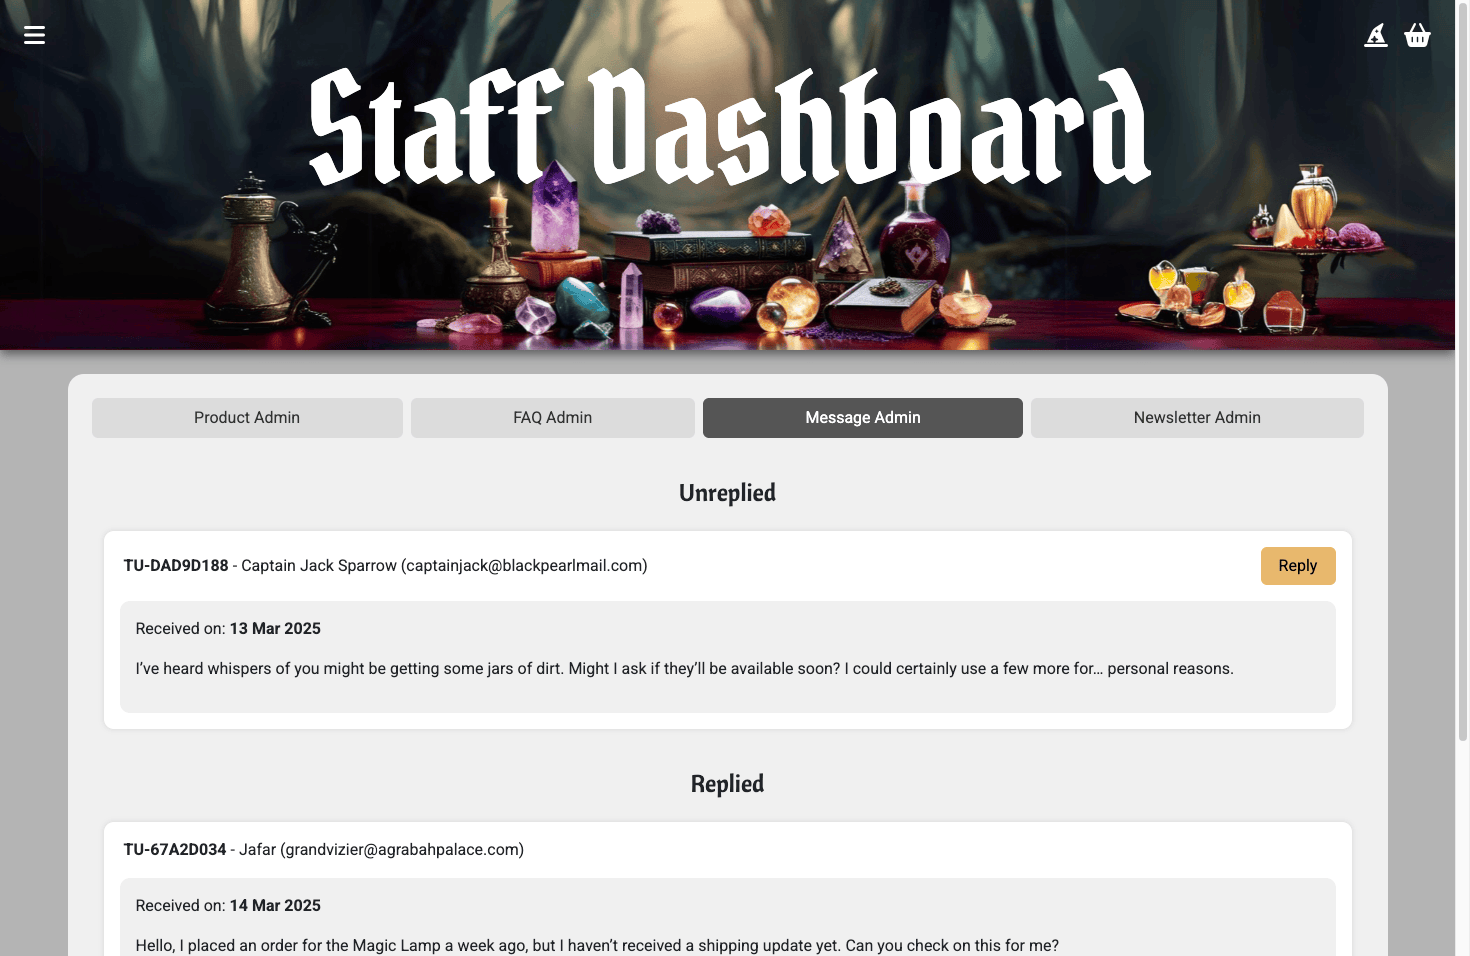
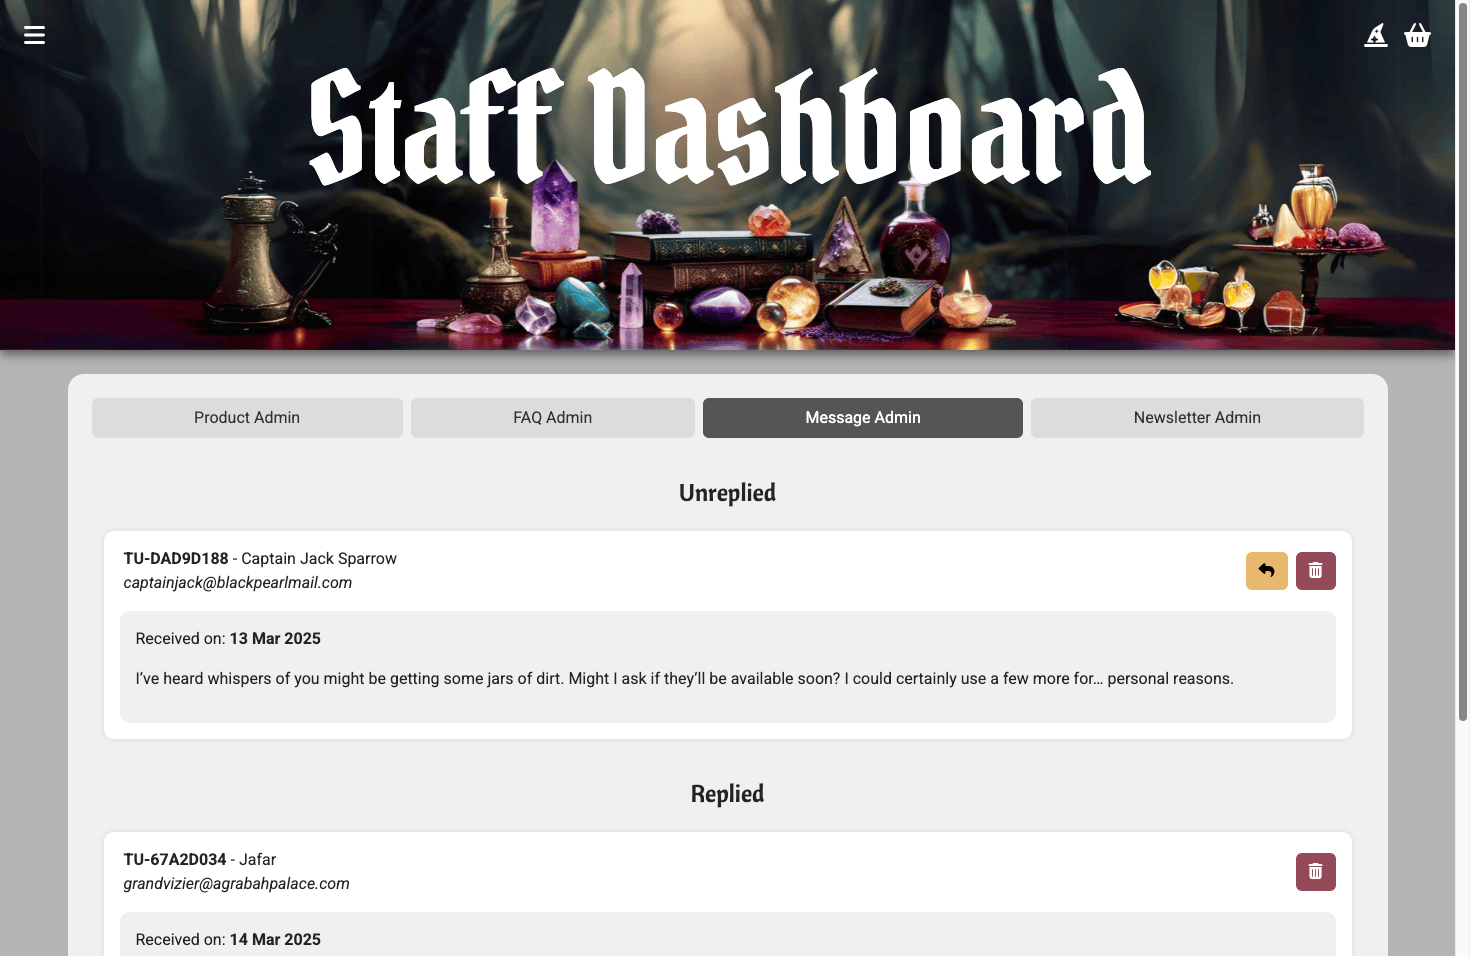
Update README.md: Message admin

diff --git a/README.md b/README.md
@@ -211,6 +211,7 @@ The action buttons are grouped by colour for specific types of action. This shou
     | ![Clock Rotating Left](documentation/ux/clock-rotate-left-solid.svg) | [clock-rotate-left](https://fontawesome.com/icons/clock-rotate-left?f=classic&s=solid "font awesome link") | Delivery window timer in product views |
     | ![Pen to Square](documentation/ux/pen-to-square-solid.svg) | [pen-to-square](https://fontawesome.com/icons/pen-to-square?f=classic&s=solid "font awesome link") | Edit buttons |
     | ![Paper Plane](documentation/ux/paper-plane-solid.svg) | [paper-plane](https://fontawesome.com/icons/paper-plane?f=classic&s=solid "font awesome link") | Newsletter sign up submit button |
+    | ![Reply](documentation/ux/reply-solid.svg) | [paper-plane](https://fontawesome.com/icons/reply?f=classic&s=solid "font awesome link") | Reply to message submit button |
 
 
 ## User Stories
@@ -723,14 +724,12 @@ I've used [Balsamiq](https://balsamiq.com/wireframes) to design my site wirefram
     | --- | --- |
     | ![Mobile 500](documentation/features/error_pages/mobile_500.png "Mobile 500 Page") | ![Desktop 500](documentation/features/error_pages/desktop_500.png "Desktop 500 Page") |
 
-**WIP UNDER THIS LINE**
-
 - ### Staff Dashboard
     The staff dashboard is an area of the site with access reserved for users with a level of **staff** or **super user**. This is where shop owners can manage the day to day admin of the site, the page is split into four sections:
-    - **Product Admin**: This is where products can be created, updated and deleted. Product realms can also be managed here too.
-    - **FAQ Admin**: FAQs can be created, updated and deleted here, including FAQ topics.
-    - **Message Admin**: This is where messages sent via the contact us page can be viewed. Staff members can also send an initial reply to the message.
-    - **Newsletter Admin**: Staff can create and send newsletters here, they can also read and delete previously sent newsletters. The current list of subscribers and their status is also manageable here.<br><br>
+    - [Product Admin](#product-admin): This is where products can be created, updated and deleted. Product realms can also be managed here too.
+    - [FAQ Admin](#faq-admin): FAQs can be created, updated and deleted here, including FAQ topics.
+    - [Message Admin](#message-admin): This is where messages sent via the contact us page can be viewed, replied to and deleted.
+    - [Newsletter Admin](#newsletter-admin): Staff can create and send newsletters here, they can also read and delete previously sent newsletters. The current list of subscribers and their status is also manageable here.<br><br>
 
     |  | Product Admin | FAQ Admin | Message Admin | Newsletter Admin |
     | --- | --- | --- | --- | --- |
@@ -880,6 +879,34 @@ I've used [Balsamiq](https://balsamiq.com/wireframes) to design my site wirefram
         | Mobile Topic Delete | Desktop Topic Delete |
         | :---: | :---: |
         | ![Mobile Topic Delete](documentation/features/dashboard/faq_admin/mobile_topic_delete.png "Mobile topic delete") | ![Desktop Topic Delete](documentation/features/dashboard/faq_admin/desktop_topic_delete.png "Desktop topic delete") |
+
+    ### Message Admin
+    Messages are grouped into two sections:
+    - Unreplied
+    - Replied
+
+    The unreplied messages are shown at the top and are also ordered chronologically with the oldest messages at the top. This gives the staff a clear indication of which messages need replying to.
+
+    Each message pane show the following information:
+    - Unique ticket number
+    - Name of sender
+    - Email address of sender
+    - Date the message was received
+    - Message content
+
+    If the message has been replied to the additional information is visible:
+    - Date the reply was sent
+    - Reply content
+
+    To reply to a message the yellow reply icon button is tapped/clicked. This will display a message prompt for the staff member to type in. They can then send this by tapping/clicking on the 'Reply' button or cancel and return to the dashboard by tapping/clicking on the 'Cancel' or modal close buttons.
+
+    Once a message reply has been created, an email will be sent to the original user who created the message and the message will be updated in the dashboard to reflect the replied status.
+
+    To delete a message the red bin icon can be tapped/clicked. A prompt asking the user to confirm will be displayed. The can then either tap/click on 'Delete' to confirm or return to the dashboard with the 'Cancel' or model close button.
+
+
+    ### Newsletter Admin
+
 
 - ### Super User Privileges
 
